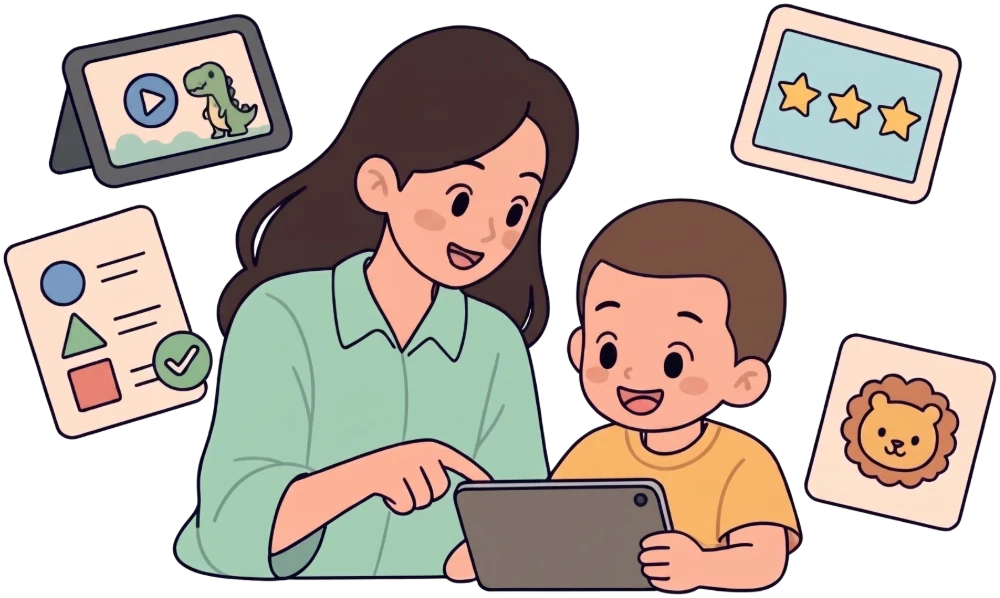
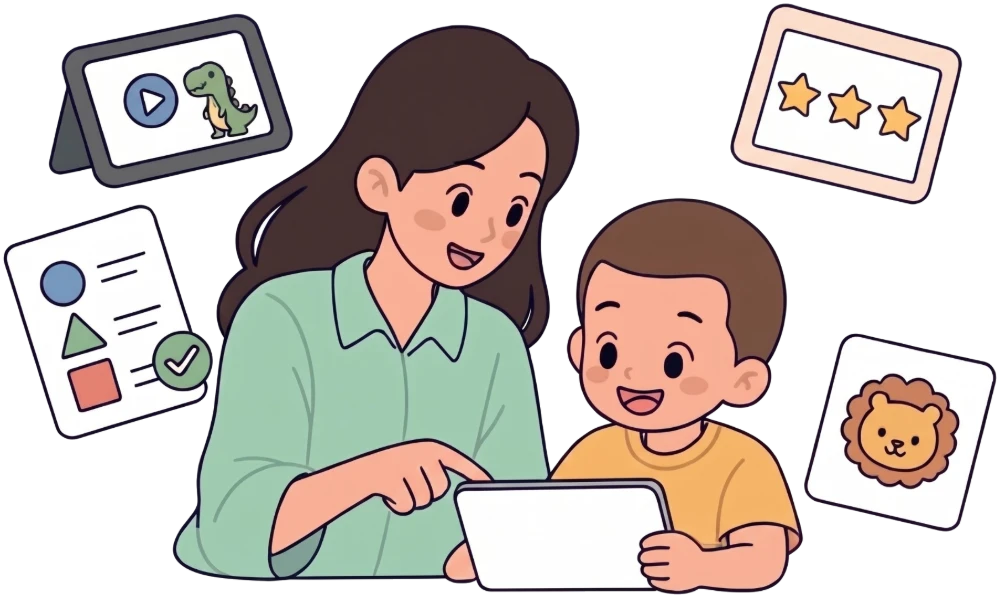
Add files via upload

diff --git a/index.html b/index.html
@@ -647,7 +647,7 @@ function done(){o("#rqBox").innerHTML='<div class="rq-done"><span class="rq-hear
     "serviceWorker"in navigator&&location.protocol==="https:"&&window.addEventListener("load",()=>{navigator.serviceWorker.register("/sw.js").catch(()=>{})});})(),(function(){"use strict";const J={en:[["#/terms","Terms & Conditions"],["#/license","License"],["#/refund","Refund Policy"],["#/privacy","Privacy Policy"]],id:[["#/terms","Syarat & Ketentuan"],["#/license","Lisensi"],["#/refund","Kebijakan Pengembalian Dana"],["#/privacy","Kebijakan Privasi"]]};function o(f){const e=LU.cfg.CONTACT||{};return f.replace(/\{wa\}/g,LU.esc(e.whatsapp||"")).replace(/\{waLink\}/g,"https://wa.me/"+LU.esc(e.whatsappLink||"")).replace(/\{email\}/g,LU.esc(e.email||"")).replace(/\{city\}/g,LU.esc(e.city||"Indonesia"))}window.LULegal=function(f){const e="#/"+LU.route;let F=typeof f=="string"?null:f;LU.page({strings:{en:{policies:"Policies"},id:{policies:"Kebijakan"}},title:()=>F?F.title[LU.lang]:(LU.lang==="id"?"Kebijakan":"Policies"),async init(){if(!F){try{await luLoad("/legal.js?v=3")}catch(x){}F=(window.LU_LEGAL||{})[f]||null}},render(){const i=LU.lang;LU.$("#legalNav").innerHTML='<span class="eyebrow" style="padding:0 14px 6px">'+LU.esc(LU.t("policies"))+"</span>"+J[i].map(r=>'<a href="'+r[0]+'"'+(r[0]===e?' class="on" aria-current="page"':"")+">"+LU.esc(r[1])+"</a>").join("");if(!F){LU.$("#doc").innerHTML='<div class="load-error"><b>'+(i==="id"?"Halaman ini belum termuat.":"This page didn&rsquo;t load.")+'</b><button type="button" class="btn btn-dark btn-sm" onclick="location.reload()">'+(i==="id"?"Coba lagi":"Try again")+"</button></div>";return}document.title=F.title[i]+" · Little Us";LU.$("#doc").innerHTML='<div style="display:flex;flex-direction:column;gap:8px;margin-bottom:24px"><h1>'+LU.esc(F.title[i])+'</h1><span class="updated">'+LU.esc(F.updated[i])+'</span></div><div class="legal-body">'+o(F.body[i])+"</div>"}})}})();
 </script>
 <script src="/lu-account.js?v=14"></script>
-<script src="/lu-app.js?v=18"></script>
+<script src="/lu-app.js?v=19"></script>
 <script>
 /* tools dropdown in the header */
 document.addEventListener('click',function(e){var b=e.target.closest&&e.target.closest('[data-tsdd]');document.querySelectorAll('.ts-dd.open').forEach(function(d){if(!b||!d.contains(b)){d.classList.remove('open');var x=d.querySelector('[data-tsdd]');x&&x.setAttribute('aria-expanded','false')}});if(b){var d=b.parentNode,o=d.classList.toggle('open');b.setAttribute('aria-expanded',String(o))}});

diff --git a/sw.js b/sw.js
@@ -1,10 +1,10 @@
 /* Little Us · service worker
    Lets the free tools open without internet once they have been opened before, and makes repeat visits fast.
    It never caches the admin page, the shop database or payments. */
-const CACHE = 'littleus-v35';
+const CACHE = 'littleus-v36';
 const IMAGES = 'littleus-img-v1';
 // the files every visit needs; tool scripts (calm, Conversation Starters, printing, articles, legal) are cached the first time they are used
-const ASSETS = ['/', '/tools.js?v=23', '/lu-account.js?v=14', '/lu-app.js?v=18', '/lu-app.css?v=17', '/tools-art.js?v=22', '/tools.css?v=20', '/logo.png'];
+const ASSETS = ['/', '/tools.js?v=23', '/lu-account.js?v=14', '/lu-app.js?v=19', '/lu-app.css?v=17', '/tools-art.js?v=22', '/tools.css?v=20', '/logo.png'];
 
 self.addEventListener('install', (e) => {
   e.waitUntil(caches.open(CACHE).then((c) => c.addAll(ASSETS)).catch(() => {}).then(() => self.skipWaiting()));

diff --git a/lu-app.js b/lu-app.js
@@ -683,7 +683,7 @@
   function deskArt(main, Ar) {
     // banner picture: a grown-up and child with a tablet (hero-family.webp, transparent background)
     var hart = main.querySelector('.h2-hero .h2-art');
-    if (hart && !hart.querySelector('.ud-heroimg')) hart.insertAdjacentHTML('beforeend', '<img class="ud-heroimg ud-x" src="/hero-family.webp?v=2" width="1000" height="598" alt="" fetchpriority="high" decoding="async">');
+    if (hart && !hart.querySelector('.ud-heroimg')) hart.insertAdjacentHTML('beforeend', '<img class="ud-heroimg ud-x" src="/hero-family.webp?v=3" width="1000" height="598" alt="" fetchpriority="high" decoding="async">');
     if (!Ar) return;
     flatHills(main);
     var cov = main.querySelector('#heroCover');
